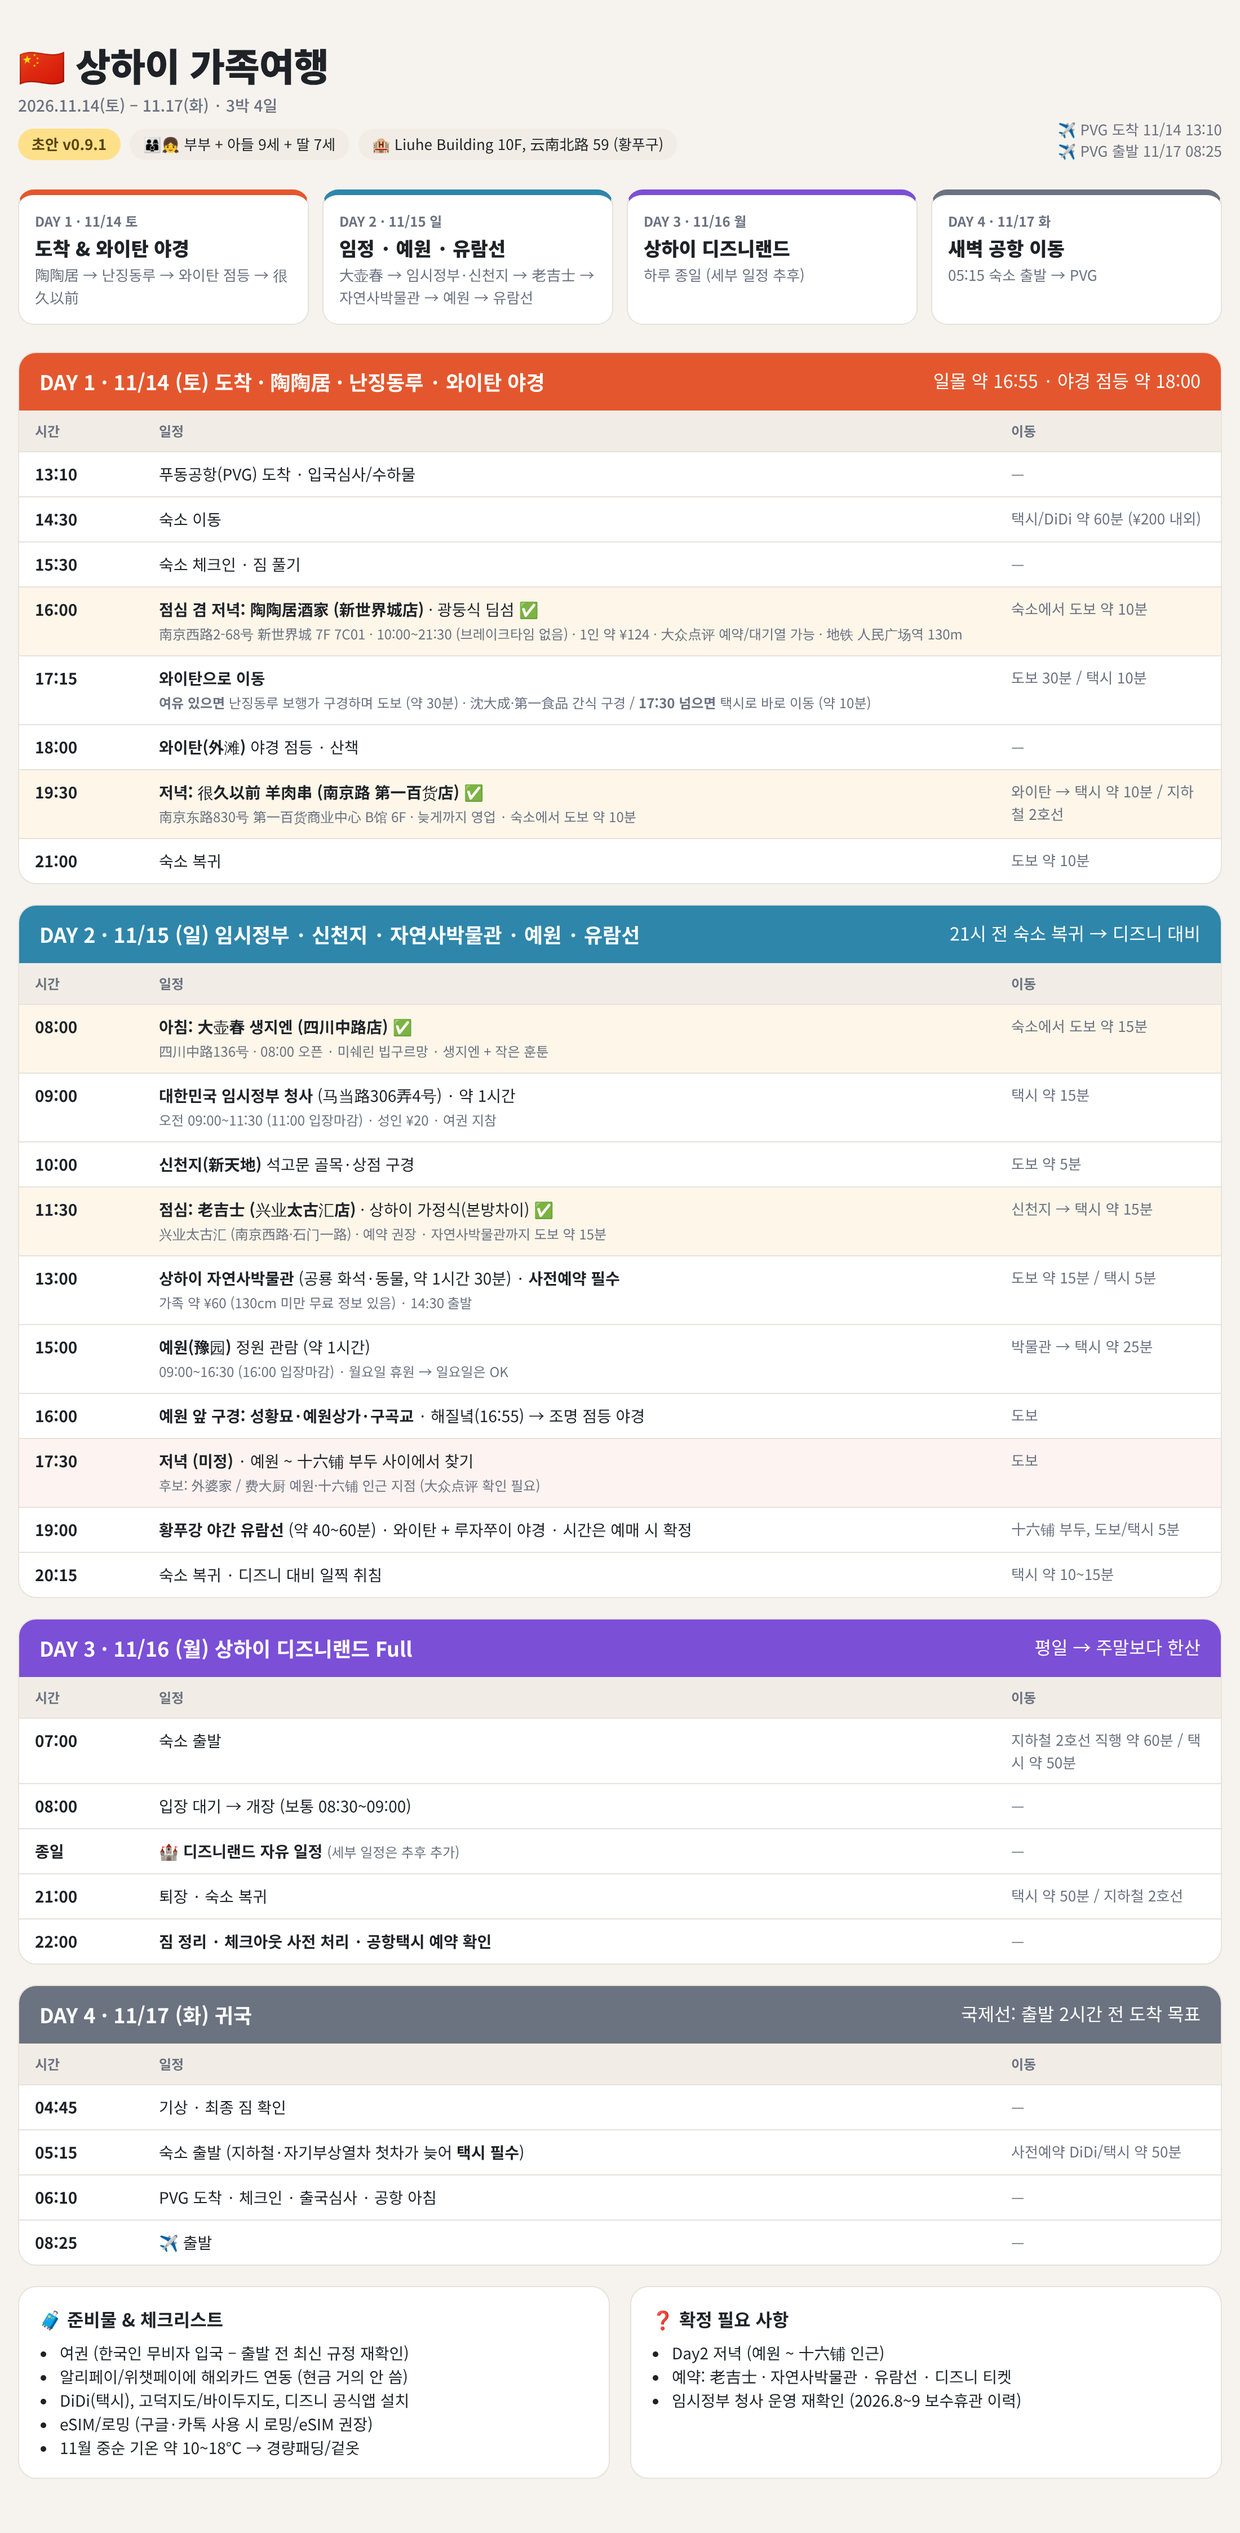
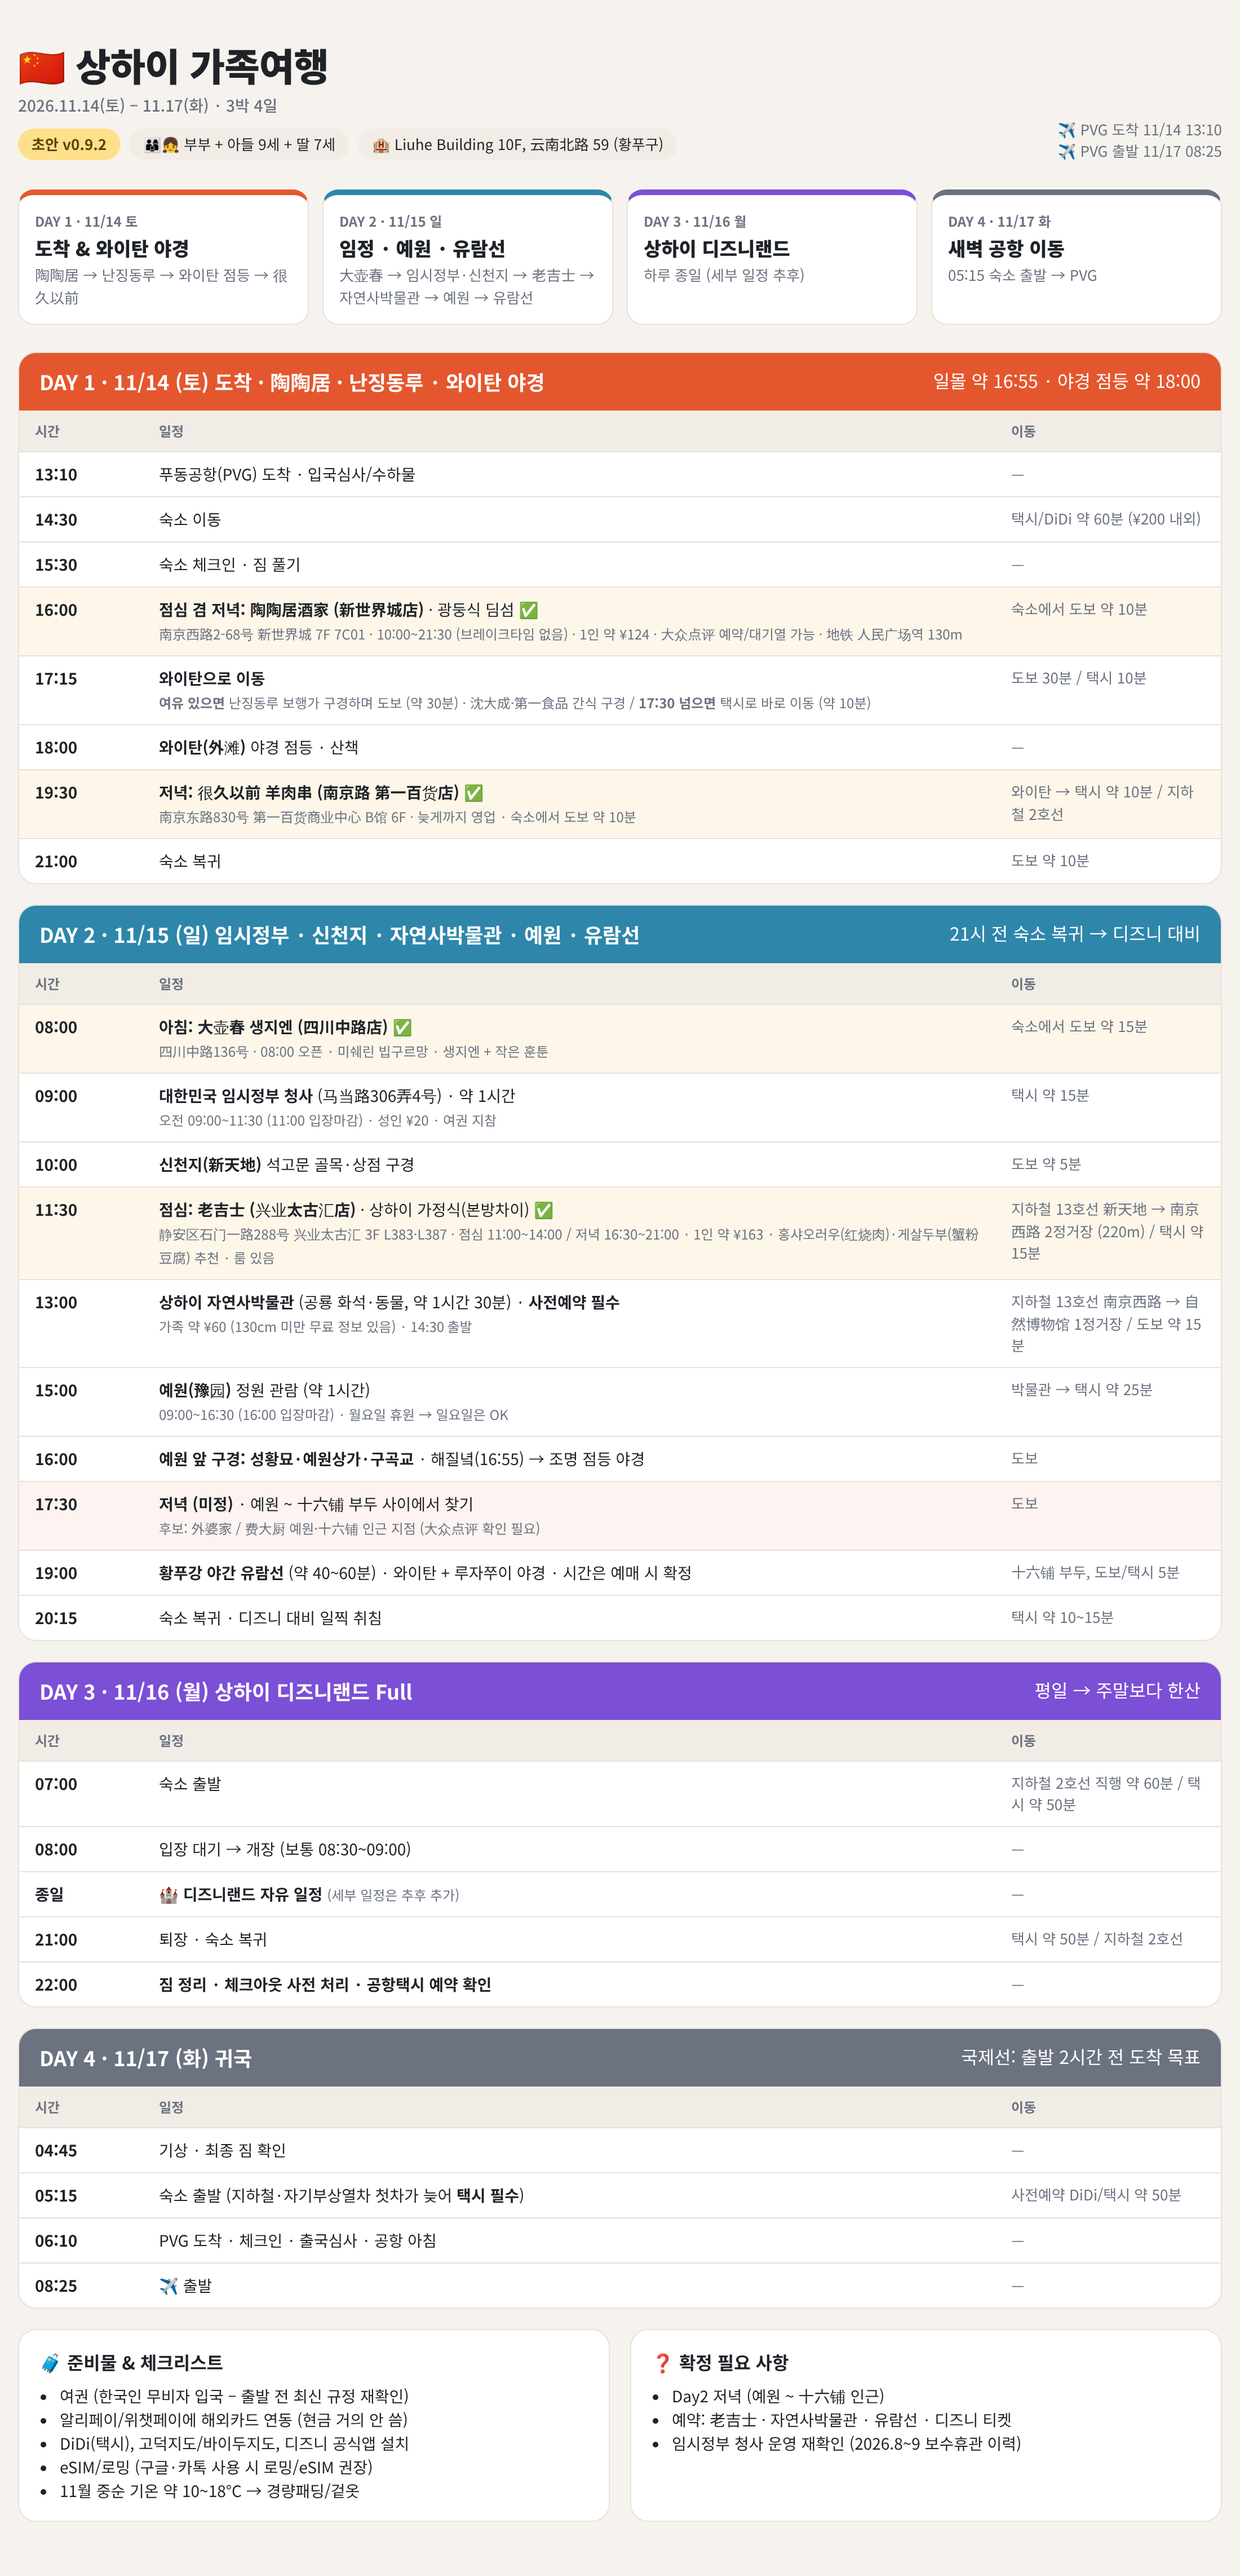
Update Lao Jishi Taikoo Hui address, hours and metro route
Claude-Session: https://claude.ai/code/session_01FtyK4HJW4ZkDiHshS9yHtF

diff --git a/index.html b/index.html
@@ -69,7 +69,7 @@
     <div>
       <h1>🇨🇳 상하이 가족여행 <small>2026.11.14(토) – 11.17(화) · 3박 4일</small></h1>
       <div style="margin-top:8px">
-        <span class="badge draft">초안 v0.9.1</span>
+        <span class="badge draft">초안 v0.9.2</span>
         <span class="badge">👨👩👦👧 부부 + 아들 9세 + 딸 7세</span>
         <span class="badge">🏨 Liuhe Building 10F, 云南北路 59 (황푸구)</span>
       </div>
@@ -108,8 +108,8 @@
       <tr class="food"><td class="time">08:00</td><td><b>아침: 大壶春 생지엔 (四川中路店)</b> ✅<br><span class="sub">四川中路136号 · 08:00 오픈 · 미쉐린 빕구르망 · 생지엔 + 작은 훈툰</span></td><td class="move">숙소에서 도보 약 15분</td></tr>
       <tr><td class="time">09:00</td><td><b>대한민국 임시정부 청사</b> (马当路306弄4号) · 약 1시간<br><span class="sub">오전 09:00~11:30 (11:00 입장마감) · 성인 ¥20 · 여권 지참</span></td><td class="move">택시 약 15분</td></tr>
       <tr><td class="time">10:00</td><td><b>신천지(新天地)</b> 석고문 골목·상점 구경</td><td class="move">도보 약 5분</td></tr>
-      <tr class="food"><td class="time">11:30</td><td><b>점심: 老吉士 (兴业太古汇店)</b> · 상하이 가정식(본방차이) ✅<br><span class="sub">兴业太古汇 (南京西路·石门一路) · 예약 권장 · 자연사박물관까지 도보 약 15분</span></td><td class="move">신천지 → 택시 약 15분</td></tr>
-      <tr><td class="time">13:00</td><td><b>상하이 자연사박물관</b> (공룡 화석·동물, 약 1시간 30분) · <b>사전예약 필수</b><br><span class="sub">가족 약 ¥60 (130cm 미만 무료 정보 있음) · 14:30 출발</span></td><td class="move">도보 약 15분 / 택시 5분</td></tr>
+      <tr class="food"><td class="time">11:30</td><td><b>점심: 老吉士 (兴业太古汇店)</b> · 상하이 가정식(본방차이) ✅<br><span class="sub">静安区石门一路288号 兴业太古汇 3F L383·L387 · 점심 11:00~14:00 / 저녁 16:30~21:00 · 1인 약 ¥163 · 홍샤오러우(红烧肉)·게살두부(蟹粉豆腐) 추천 · 룸 있음</span></td><td class="move">지하철 13호선 新天地 → 南京西路 2정거장 (220m) / 택시 약 15분</td></tr>
+      <tr><td class="time">13:00</td><td><b>상하이 자연사박물관</b> (공룡 화석·동물, 약 1시간 30분) · <b>사전예약 필수</b><br><span class="sub">가족 약 ¥60 (130cm 미만 무료 정보 있음) · 14:30 출발</span></td><td class="move">지하철 13호선 南京西路 → 自然博物馆 1정거장 / 도보 약 15분</td></tr>
       <tr><td class="time">15:00</td><td><b>예원(豫园)</b> 정원 관람 (약 1시간)<br><span class="sub">09:00~16:30 (16:00 입장마감) · 월요일 휴원 → 일요일은 OK</span></td><td class="move">박물관 → 택시 약 25분</td></tr>
       <tr><td class="time">16:00</td><td><b>예원 앞 구경: 성황묘·예원상가·구곡교</b> · 해질녘(16:55) → 조명 점등 야경</td><td class="move">도보</td></tr>
       <tr class="tbd"><td class="time">17:30</td><td><b>저녁 (미정)</b> · 예원 ~ 十六铺 부두 사이에서 찾기<br><span class="sub">후보: 外婆家 / 费大厨 예원·十六铺 인근 지점 (大众点评 확인 필요)</span></td><td class="move">도보</td></tr>

diff --git a/README.md b/README.md
@@ -1,4 +1,4 @@
-# 상하이 가족여행 (2026.11.14 ~ 11.17, 3박 4일) — 초안 v0.9.1
+# 상하이 가족여행 (2026.11.14 ~ 11.17, 3박 4일) — 초안 v0.9.2
 
 - 인원: 부부 + 아들 9세 + 딸 7세
 - 숙소: Liuhe Building 10F, 59 Yunnan North Rd, 황푸구
